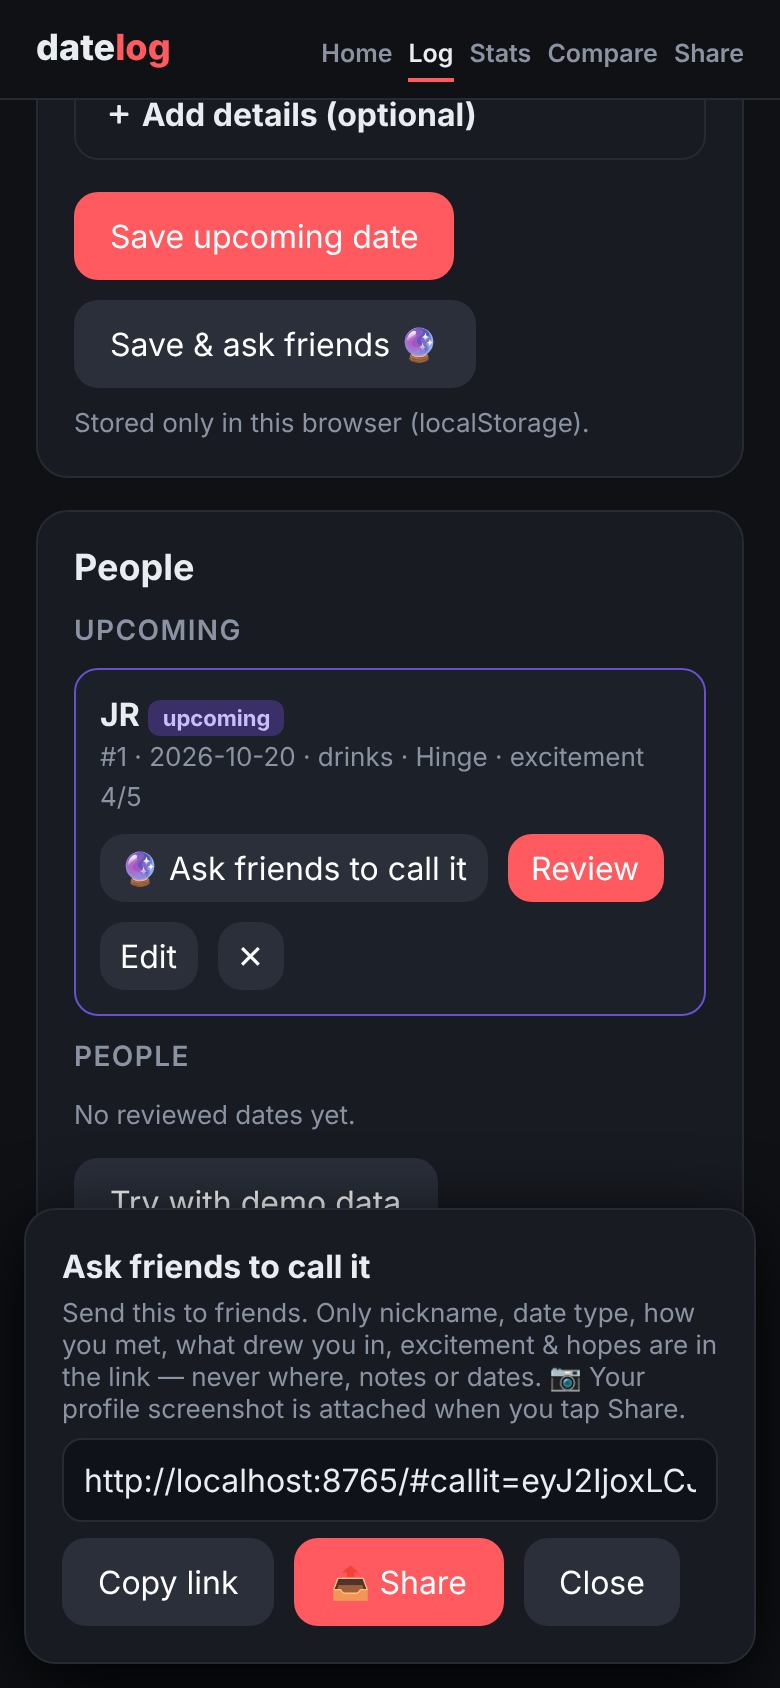
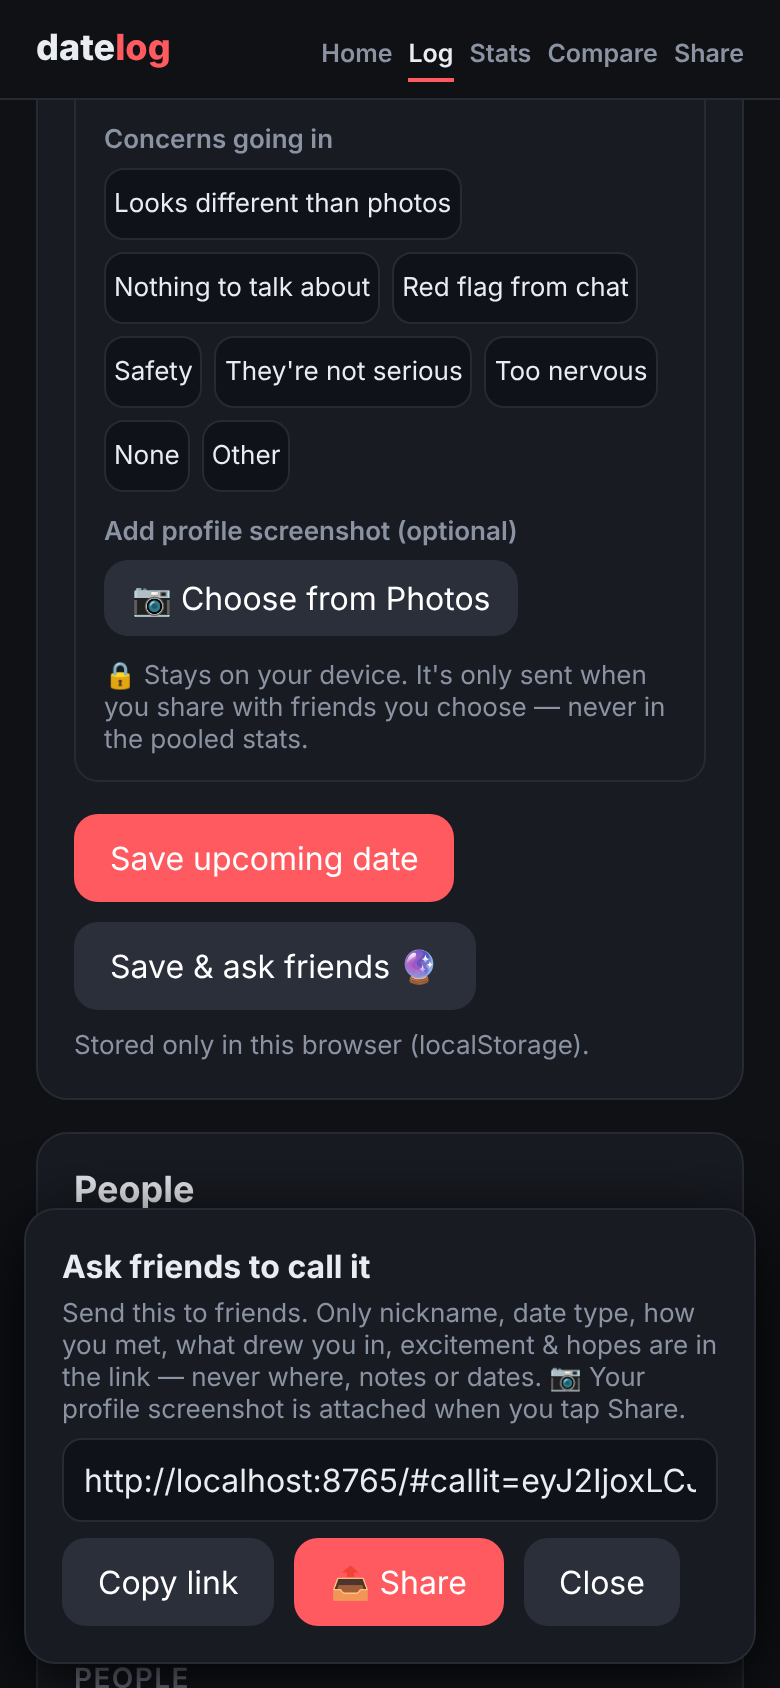
Log: future tense for upcoming, Add details always visible

diff --git a/index.html b/index.html
@@ -39,7 +39,7 @@ input,select,textarea{width:100%;background:#0f1218;border:1px solid var(--line)
 
 .fld{margin-top:14px}
 .stars button{font-size:0!important;background:none!important;border:0!important;padding:2px!important;flex:0 0 auto!important;min-width:0!important}.stars button::after{content:'☆';font-size:34px;color:#ffb347}.stars button.lit::after{content:'★'}.stars{gap:10px;justify-content:flex-start}
-#metChips button{flex:0 1 auto}details#more{margin-top:16px;border:1px solid var(--line);border-radius:12px;padding:12px 14px}details#more>summary{cursor:pointer;font-weight:700;list-style:none}details#more>summary::before{content:'＋ '}details#more[open]>summary::before{content:'－ '}
+#metChips button{flex:0 1 auto}#more{margin-top:16px;border:1px solid var(--line);border-radius:12px;padding:12px 14px}#more .morehd{cursor:pointer;font-weight:700;list-style:none}details#more>summary::before{content:'＋ '}details#more[open]>summary::before{content:'－ '}
 .fnd{border-color:#6a4fd0}#findings ul{margin:0;padding-left:20px}#findings li{margin:8px 0;line-height:1.4}.qchips{display:flex;gap:6px;overflow-x:auto;padding-bottom:4px;-webkit-overflow-scrolling:touch}.qchips button{flex:0 0 auto;background:#0f1218;border:1px solid var(--line);color:var(--tx);border-radius:999px;padding:7px 12px;font:inherit;font-size:13px;cursor:pointer}
 #askLog{max-height:420px;overflow-y:auto;padding:0}#askLog:empty{display:none}#askLog{margin-top:10px}
 .hs h2{font-size:20px;margin-bottom:4px}.mini{position:relative;background:#0f1218;border:1px solid var(--line);border-radius:14px;padding:14px;margin-top:12px}.ex{position:absolute;top:8px;right:10px;font-size:10px;font-weight:800;letter-spacing:.08em;text-transform:uppercase;color:var(--mu);border:1px solid var(--line);border-radius:999px;padding:1px 7px}
@@ -94,21 +94,21 @@ input,select,textarea{width:100%;background:#0f1218;border:1px solid var(--line)
  <p class="muted" id="fHelp">Nickname or initials only. No full names, photos or contact info.</p>
  <form id="f" autocomplete="off">
  <div id="quickSec">
-<div class="fld" id="qNick"><label>Who was the date with?</label><input name="nick" list="nicks" maxlength="12" placeholder="e.g. J.R. or 'Climber'"><datalist id="nicks"></datalist><small class="muted" id="nickHint"></small></div>
- <div class="fld" id="qDate"><label>When was the date?</label><input type="date" name="date" required><input type="hidden" name="time" value=""></div>
+<div class="fld" id="qNick"><label data-past="Who was the date with?" data-fut="Who's the date with?">Who was the date with?</label><input name="nick" list="nicks" maxlength="12" placeholder="e.g. J.R. or 'Climber'"><datalist id="nicks"></datalist><small class="muted" id="nickHint"></small></div>
+ <div class="fld" id="qDate"><label data-past="When was the date?" data-fut="When is the date?">When was the date?</label><input type="date" name="date" required><input type="hidden" name="time" value=""></div>
 
   <div class="fld"><label>How did you meet?</label><div id="metChips" class="seg"></div><select name="met" class="hide"><option>Hinge</option><option>Bumble</option><option>Tinder</option><option>Raya</option><option>Other app</option><option>In person</option><option>At work</option><option>Set up</option><option>Other</option></select><input name="otherDetail" class="hide" maxlength="40" placeholder="What other? (private)" style="margin-top:6px"></div>
- <div class="fld"><label>What did you do?</label><div class="seg" data-n="type"></div></div>
+ <div class="fld"><label data-past="What did you do?" data-fut="What are you doing?">What did you do?</label><div class="seg" data-n="type"></div></div>
 <div class="preOnly"> <div class="fld"><label>How excited are you?</label><div class="seg" data-n="excite"></div></div>
 </div>
  <div class="fld postOnly"><label>How was the date? <span class="muted" style="font-weight:400">(overall)</span></label><div class="seg stars" data-n="went"></div></div>
  <div class="fld postOnly"><label>Would you see them again?</label><div class="seg" data-n="mine"></div></div>
  <div class="fld postOnly"><label>Did they want to see you again?</label><div class="seg" data-n="theirs"></div></div>
  </div>
- <details id="more" open><summary>Add details</summary><p class="muted" style="font-size:13px;margin:6px 0 0">The more details you record, the better data you'll have.</p><div id="moreDate"></div>
+ <div id="more"><div class="morehd">Add details</div><p class="muted" style="font-size:13px;margin:6px 0 0">The more details you record, the better data you'll have.</p><div id="moreDate"></div>
  <div id="preSec">
  <div class="grid">
-  <div><label>Where did you go? <span class="muted" style="font-weight:400">(optional, private)</span></label><input name="where" maxlength="40" placeholder="e.g. Bar Bandini"></div>
+  <div><label data-past="Where did you go?" data-fut="Where are you going?">Where did you go? <span class="muted" style="font-weight:400">(optional, private)</span></label><input name="where" maxlength="40" placeholder="e.g. Bar Bandini"></div>
  </div>
  <div class="fld" id="drawBox"><label>Why are you interested? <span class="muted">(first date · pick any)</span></label><div class="seg multi" data-n="draw"></div><input data-o="draw" class="hide oth" maxlength="40" placeholder="What else? (private)"></div>
  <div class="fld"><label>Who do you expect to pay? (optional)</label><div class="seg" data-n="expPaid"></div></div>
@@ -131,7 +131,7 @@ input,select,textarea{width:100%;background:#0f1218;border:1px solid var(--line)
  </div>
  </div>
  <div id="shotFld" style="margin-top:12px;display:block"><label>Add profile screenshot (optional)</label><label class="btn g" for="shotIn" id="shotBtn" style="display:inline-block;padding:9px 14px">📷 Choose from Photos</label><input type="file" id="shotIn" accept="image/*" class="hide"><div id="shotPrev" class="hide" style="margin-top:8px;position:relative;width:fit-content"><img id="shotImg" alt="Profile screenshot preview" style="max-width:120px;max-height:200px;border-radius:10px;display:block"><button type="button" id="shotRm" class="btn g" style="position:absolute;top:4px;right:4px;padding:2px 8px">✕</button></div><p class="muted" style="font-size:13px;margin:6px 0 0">🔒 Stays on your device. It's only sent when you share with friends you choose — never in the pooled stats.</p></div>
- </details>
+ </div>
  <div class="row" style="margin-top:16px"><button class="btn" id="saveBtn">Save upcoming date</button><button class="btn g preOnly" id="saveAsk" type="button">Save &amp; ask friends 🔮</button><span class="muted">Stored only in this browser (localStorage).</span></div>
  </form></div>
  <div class="card"><h2>People</h2><div id="upcoming"></div><div id="list"></div>
@@ -216,7 +216,7 @@ const showWhy=m=>m=='no',showThey=(m,t,s)=>(m=='yes'||m=='maybe')&&(t=='no'||(t=
 let mode='post',editId=null,askAfter=false;const f=$('#f');
 function syncMet(){const c=$('#metChips');if(!c.children.length){c.innerHTML=[...f.met.options].map(o=>`<button type="button" data-v="${esc(o.value)}">${esc(o.value)}</button>`).join('');c.onclick=e=>{const b=e.target.closest('button');if(!b)return;f.met.value=b.dataset.v;f.met.onchange();syncMet()}}$$('button',c).forEach(b=>b.classList.toggle('on',b.dataset.v==f.met.value))}
 function upd(){syncMet();$$('#f .preOnly').forEach(e=>e.classList.toggle('hide',mode!='pre'));$$('#f .postOnly').forEach(e=>e.classList.toggle('hide',mode=='pre'));
- {const q=$('#qDate');if(mode=='pre'){if(q.parentNode.id!='quickSec')$('#qNick').after(q)}else if(q.parentNode.id!='moreDate')$('#moreDate').append(q)}
+ $$('label[data-fut]').forEach(l=>{const t=mode=='pre'?l.dataset.fut:l.dataset.past;l.firstChild.textContent=t+(l.children.length?' ':'')});{const q=$('#qDate');if(mode=='pre'){if(q.parentNode.id!='quickSec')$('#qNick').after(q)}else if(q.parentNode.id!='moreDate')$('#moreDate').append(q)}
  {const on=+getSeg('went')||0;$$('#f .stars button').forEach((b,i)=>b.classList.toggle('lit',i<on))}
  $('#saveAsk').classList.toggle('hide',mode!='pre'||!!editId);$('#postSec').classList.toggle('hide',mode=='pre');$$('#modeSeg button').forEach(b=>b.classList.toggle('on',b.dataset.m==(mode=='review'?'post':mode)));$('#modeSeg').classList.toggle('hide',mode=='review');
  $('#whyBox').classList.toggle('hide',!showWhy(getSeg('mine')));$('#theyBox').classList.toggle('hide',!showThey(getSeg('mine'),getSeg('theirs'),getSeg('second')));
